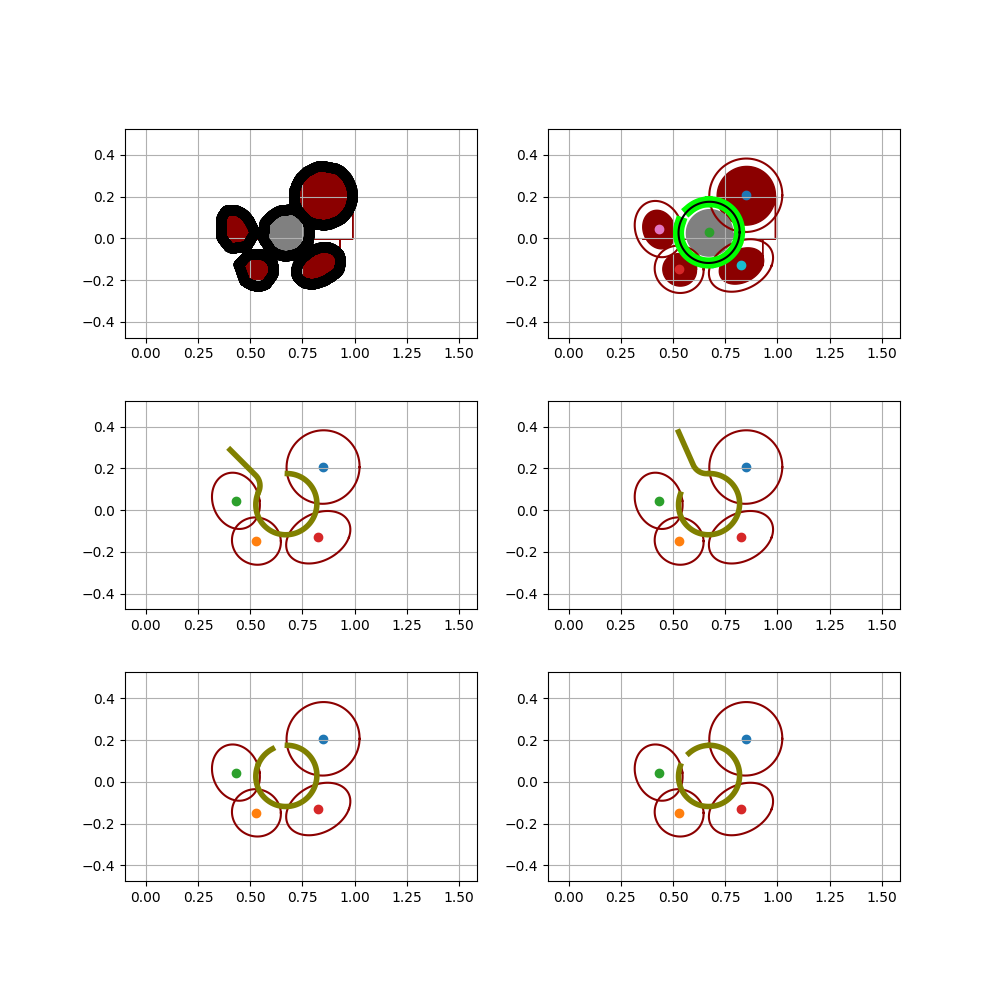
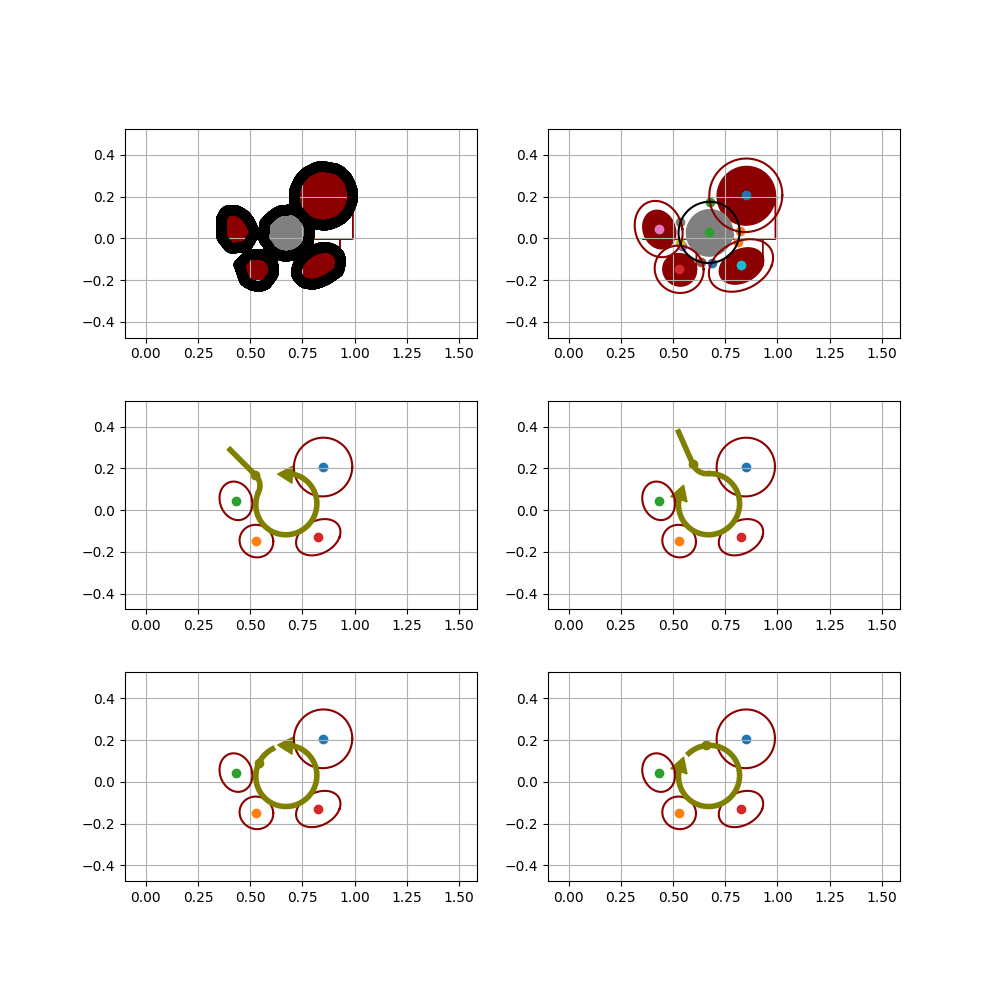
[edit] path generation figure: display start point of first finger as dot, end point and direction of the first finger as triangle

diff --git a/scripts/ros_node.py b/scripts/ros_node.py
@@ -24,7 +24,6 @@ from swipe_dishes.utils.ellipse import Ellipse
 from swipe_dishes.utils.utils import Angle
 
 class SwipeAcrossTheDishesServer(object):
-    
     def __init__(self):
         self.cv_bridge = CvBridge()
         self.tf = tf.TransformerROS()
@@ -42,7 +41,7 @@ class SwipeAcrossTheDishesServer(object):
             '/swipe_across_ths_dishes/get_swipe_dish_path',
             GetSwipeDishesPath,
             self.get_swipe_dish_path_handler
-            )
+        )
 
         # Publisher for visualization
         if self.planner_config["publish_vis_topic"]:
@@ -221,7 +220,7 @@ class SwipeAcrossTheDishesServer(object):
         start_path_list[0] = cw_t_ellipse.get_approach_path(npts=start_path_lengh, tmin= target_ellipse.normal_vector(path_angle.start) + np.pi, trange= _desired_angle, width= self.gripper_config["width"] + 0.07)
         start_path_list[1] = ccw_t_ellipse.get_approach_path(npts=start_path_lengh, tmin= target_ellipse.normal_vector(path_angle.end) + np.pi, trange= -_desired_angle, width= self.gripper_config["width"] + 0.07)
 
-        ## Along path from out of the target
+        ## Entering path along the target
         start_path_list[2] = target_ellipse.get_along_path(npts=start_path_lengh, tmin=path_angle.start, cw=True, width=self.gripper_config["width"])
         start_path_list[3] = target_ellipse.get_along_path(npts=start_path_lengh, tmin=path_angle.end, cw=False, width=self.gripper_config["width"])
 
@@ -244,7 +243,6 @@ class SwipeAcrossTheDishesServer(object):
             if _path_to_base < _best_path_lengh and _is_available[idx]:
                 _best_path = idx
                 _best_path_lengh = _path_to_base
-        _best_path = 3
         
         # vis
         if self.planner_config["visualize"]:
@@ -258,27 +256,23 @@ class SwipeAcrossTheDishesServer(object):
             ax1.set_ylim([map_corners[2] - 0.1, map_corners[3] + 0.1])
             ax2.set_xlim([map_corners[0] - 0.1, map_corners[1] + 0.1])
             ax2.set_ylim([map_corners[2] - 0.1, map_corners[3] + 0.1])
-                
+            
+            # 321
             for obs in obs_ellipse_list:
                 obs.resize(-self.planner_config["dish_r_margin"], -self.planner_config["dish_r_margin"])
                 x, y = obs.get_ellipse_pts()
                 ax1.scatter(obs.center[0], obs.center[1])
                 ax1.fill_between(x, y, color='darkred')
+                
+            for obs in obs_edge_list:
+                rand_idx = np.random.randint(0, len(obs.edge_xyz), 1000)
+                ax1.plot(obs.edge_xyz[rand_idx, 0], obs.edge_xyz[rand_idx, 1], 'ko')
 
-                ax2.fill_between(x, y, color='darkred')
-                obs.resize(self.planner_config["dish_r_margin"], self.planner_config["dish_r_margin"])
-                x, y = obs.get_ellipse_pts()
-                ax2.scatter(obs.center[0], obs.center[1])
-                ax2.plot(x, y, color='darkred')
+            ax1.fill_between(target_edge.edge_xyz[:,0], target_edge.edge_xyz[:,1], color='gray')
+            ax1.plot(target_edge.edge_xyz[rand_idx, 0], target_edge.edge_xyz[rand_idx, 1], 'ko')
 
-                checker = Ellipse.check_overlap_area(target_ellipse, obs)
-                if checker is None: continue
-                x, y = target_ellipse.point(checker.start)
-                ax2.scatter(x, y)
-                x, y = target_ellipse.point(checker.end)
-                ax2.scatter(x, y)
-
-            for i, sub_plot in enumerate([323, 324, 325, 326]):  # 4, 5, 6번 서브플롯
+            # 323 ~ 326
+            for i, sub_plot in enumerate([323, 324, 325, 326]):  # 3, 4, 5, 6번 서브플롯
                 ax_clone = fig.add_subplot(sub_plot)
                 ax_clone.set_xlim([map_corners[0] - 0.1, map_corners[1] + 0.1])
                 ax_clone.set_ylim([map_corners[2] - 0.1, map_corners[3] + 0.1])
@@ -293,18 +287,45 @@ class SwipeAcrossTheDishesServer(object):
                 ax_clone.plot(start_path_list[i][0], start_path_list[i][1], _color, linewidth=4)
                 ax_clone.plot(finger_path_xy_base[0], finger_path_xy_base[1], _color, linewidth=4)
                 
+                # Draw start direction triangle
+                if i % 2 == 0:
+                    _order_c = -1
+                    _order_n = -2
+                else:
+                    _order_c = 0
+                    _order_n = 1
+                    
+                x0, y0 = finger_path_xy_base[0][_order_c], finger_path_xy_base[1][_order_c]
+                x1, y1 = finger_path_xy_base[0][_order_n], finger_path_xy_base[1][_order_n]
+                dx, dy = x1 - x0, y1 - y0
+                norm = np.hypot(dx, dy)
+                if norm > 0:
+                    dx /= norm
+                    dy /= norm
+                    ax_clone.scatter(x0, y0, marker=(3, 0, np.degrees(np.arctan2(dy, dx)) - 30.0), color=_color, s=200)
+                    
+                x0, y0 = start_path_list[i][0][start_path_lengh], start_path_list[i][1][start_path_lengh]
+                ax_clone.scatter(x0, y0, color=_color)
+                
                 ax_clone.grid(True)
                 ax_clone.set_aspect('equal')
 
-            for obs in obs_edge_list:
-                rand_idx = np.random.randint(0, len(obs.edge_xyz), 1000)
-                ax1.plot(obs.edge_xyz[rand_idx, 0], obs.edge_xyz[rand_idx, 1], 'ko')
+            # 322
+            for obs in obs_ellipse_list:
+                x, y = obs.get_ellipse_pts()
 
-            ax1.fill_between(target_edge.edge_xyz[:,0], target_edge.edge_xyz[:,1], color='gray')
-            ax1.plot(target_edge.edge_xyz[rand_idx, 0], target_edge.edge_xyz[rand_idx, 1], 'ko')
+                ax2.fill_between(x, y, color='darkred')
+                obs.resize(self.planner_config["dish_r_margin"], self.planner_config["dish_r_margin"])
+                x, y = obs.get_ellipse_pts()
+                ax2.scatter(obs.center[0], obs.center[1])
+                ax2.plot(x, y, color='darkred')
 
-            ax2.plot(finger_path_xy_base[0], finger_path_xy_base[1], 'lime',linewidth=8)
-            ax2.plot(start_path_list[_best_path,:,:][0], start_path_list[_best_path,:,:][1], 'lime', linewidth=8)
+                checker = Ellipse.check_overlap_area(target_ellipse, obs)
+                if checker is None: continue
+                x, y = target_ellipse.point(checker.start)
+                ax2.scatter(x, y)
+                x, y = target_ellipse.point(checker.end)
+                ax2.scatter(x, y)
 
             x, y = origin_target_ellipse.get_ellipse_pts()
             ax2.fill_between(x, y, color='gray')
@@ -489,7 +510,7 @@ class SwipeAcrossTheDishesServer(object):
         rot_mat = tft.quaternion_matrix(orientation)[:3,:3]
         self.n_vector = rot_mat[:,2]
         
-        # Get local positions of vertices 
+        # Get local positions of vertices
         vertices_loc = []
         for x in [-self.size_msg.x/2, self.size_msg.x/2]:
             for y in [-self.size_msg.y/2, self.size_msg.y/2]:
